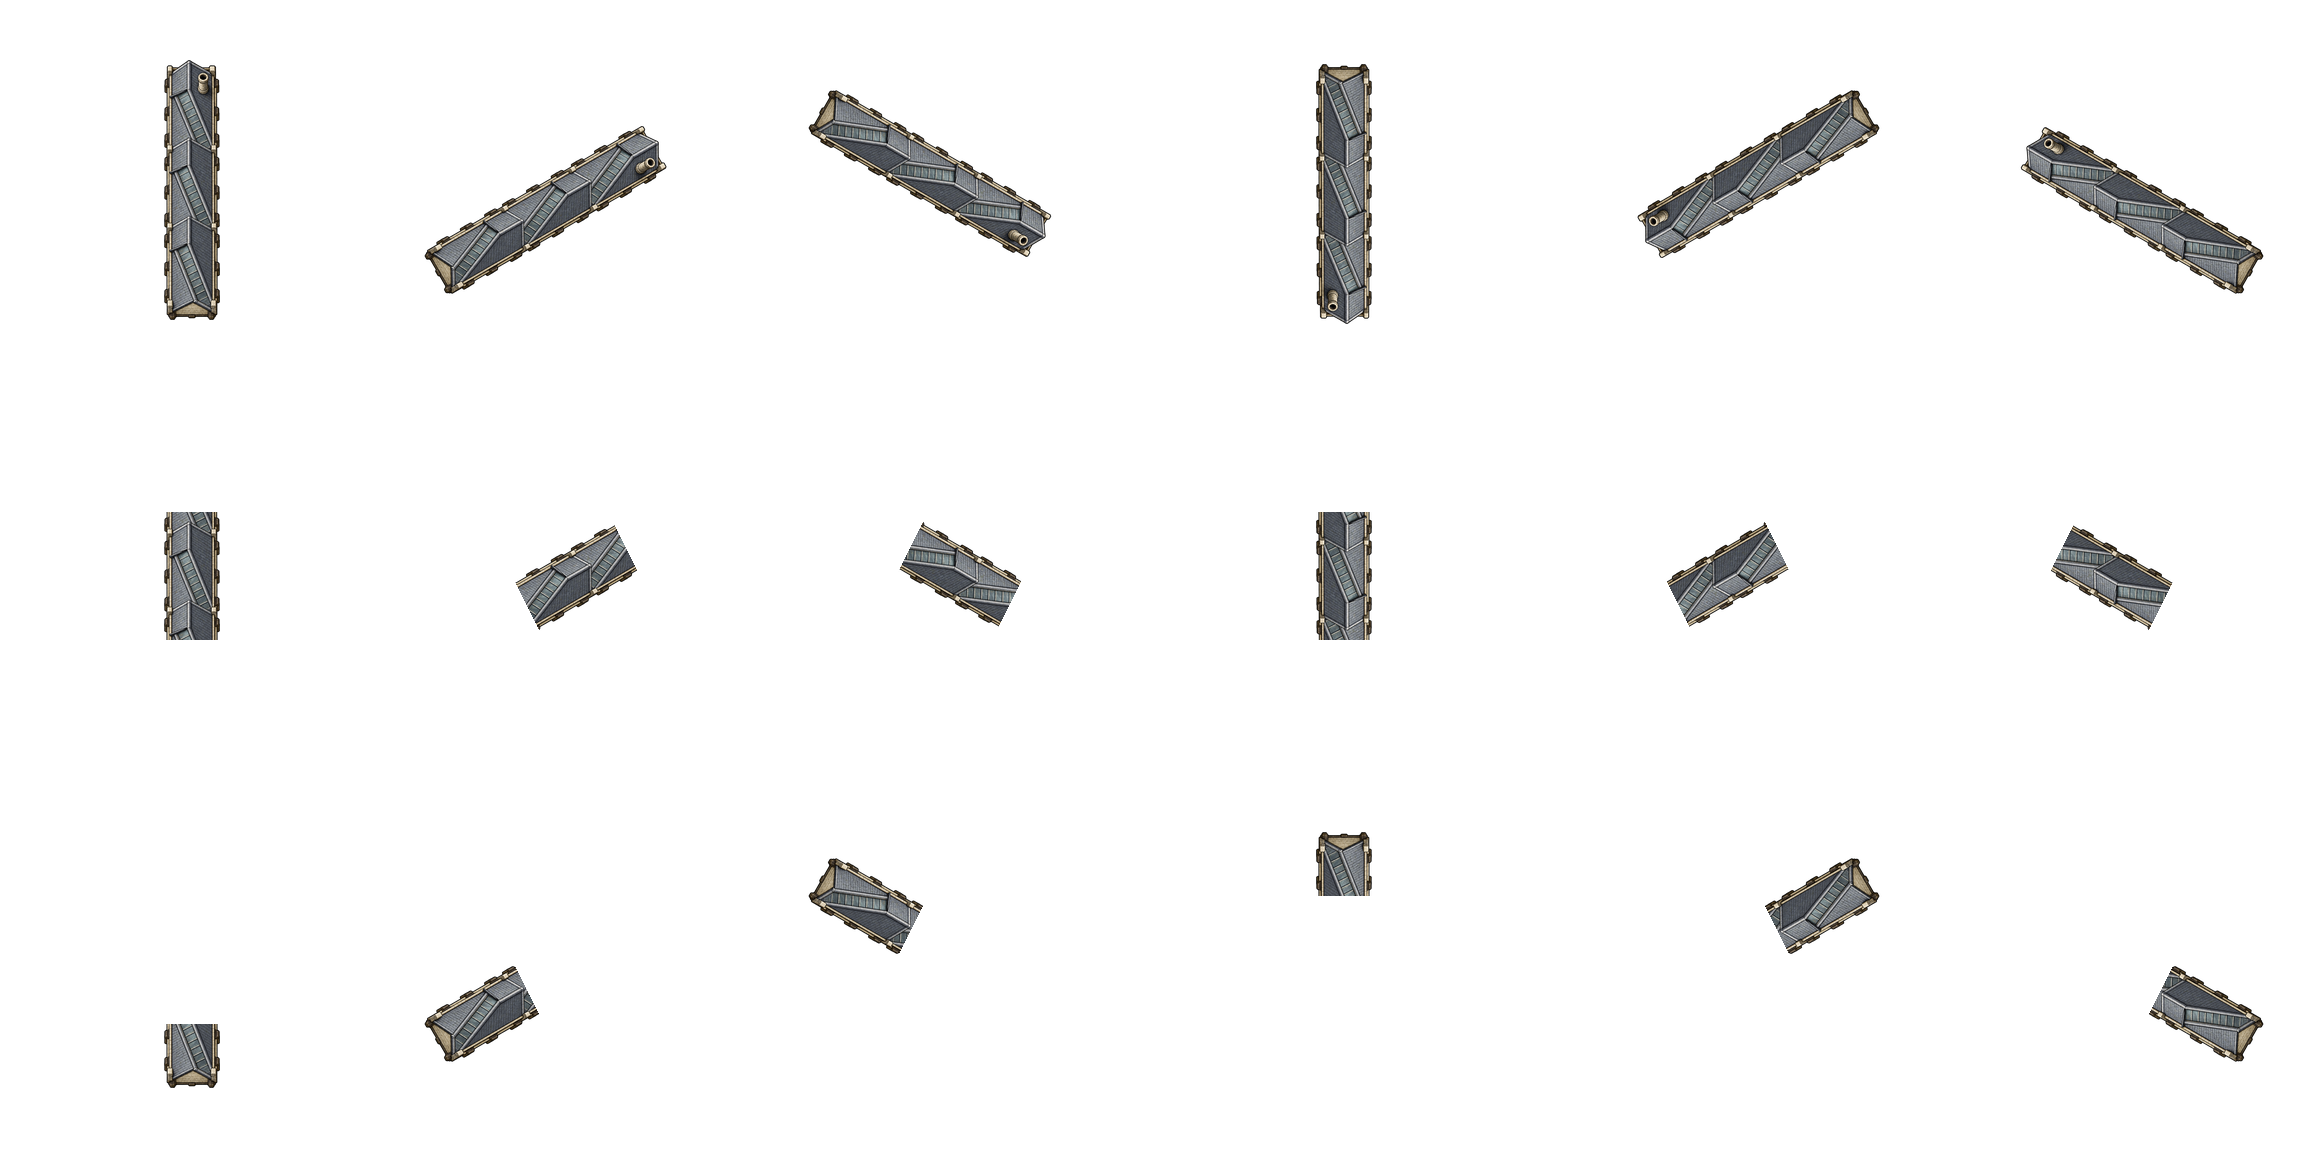
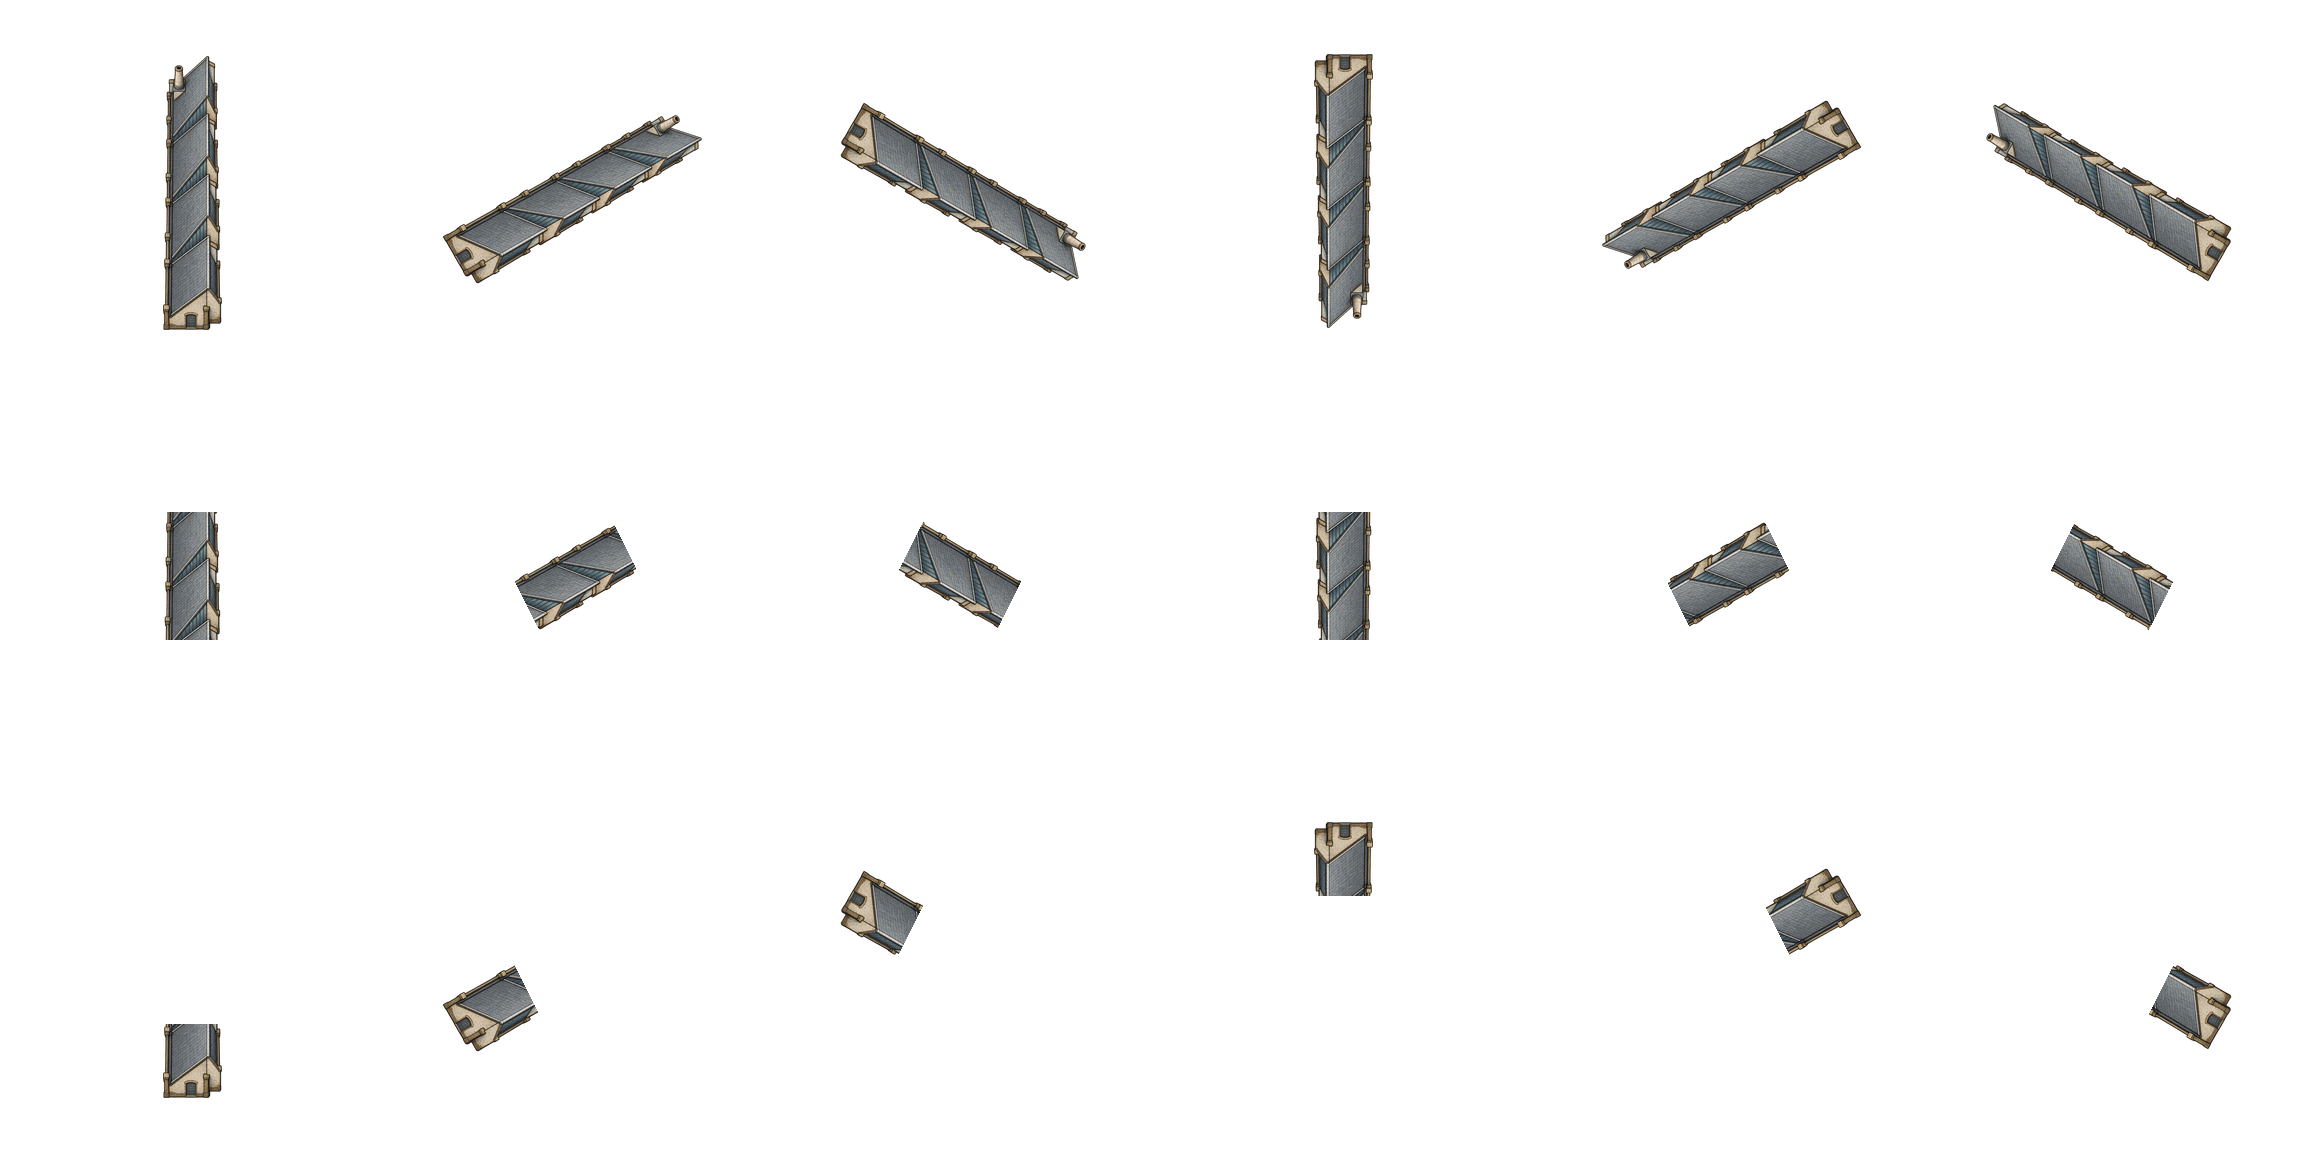
fix: give the textile factory a raised sawtooth roof

diff --git a/docs/art/three_hex_landmarks/README.md b/docs/art/three_hex_landmarks/README.md
@@ -22,6 +22,12 @@ Previews: [six designs](overview.png), [all orientations](preview.png),
 [wood](wood.png), [stone](stone.png).
 Green polygons show the actual occupied hexes and are not part of the sprites.
 
+The textile factory uses raised industrial saw-tooth shed bays with steep glazed
+faces, recessed gutters and visible triangular end profiles. Its grey roofing
+uses the user's Dalmine and Crespi d'Adda photographs as architectural inspiration;
+[textile_roof_references.json](textile_roof_references.json) records those sources.
+Its six corrected views are shown in [textile_factory_roof.png](textile_factory_roof.png).
+
 ## Strict footprint boundary
 
 This pack uses the union of the three actual flat-top hex polygons, rather than
@@ -64,8 +70,8 @@ godot --headless --path . tests/multihex_buildings_regression.tscn
 godot --headless --path . tests/multihex_placement_regression.tscn
 ```
 
-Validation: 1,917 strict-boundary checks pass, covering 2,299,584 visible pixel
+Validation: 1,917 strict-boundary checks pass, covering 2,310,576 visible pixel
 placements in Godot with zero pixels in a fourth hex. All 36 views retain at
-least 1,806 substantial roof pixels in every occupied cell. Catalog checks
+least 1,949 substantial roof pixels in every occupied cell. Catalog checks
 (9,710), placement/LOS/defense checks (28,286), and parsing/convention checks
 for all 269 GDScript files also pass.
